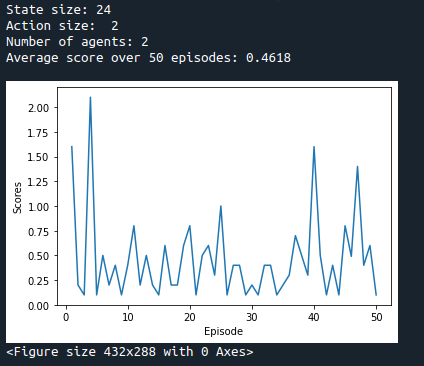
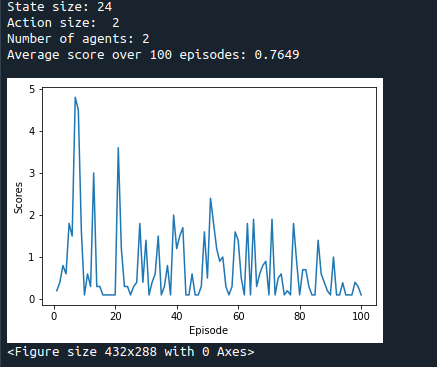
Tested the latest agent for 100 episodes.

Changed region(s): [[0.0, 0.2104, 0.9505, 0.9918], [0.0, 0.0, 0.7052, 0.1803]]

diff --git a/test.py b/test.py
@@ -56,7 +56,7 @@ def test_ddpg(env, episodes=10):
              
 if __name__ == '__main__':
     env = UnityEnvironment(file_name='Tennis_Linux/Tennis.x86_64')
-    scores = test_ddpg(env, episodes=50)
+    scores = test_ddpg(env, episodes=100)
     env.close()
     
     fig = plt.figure()
